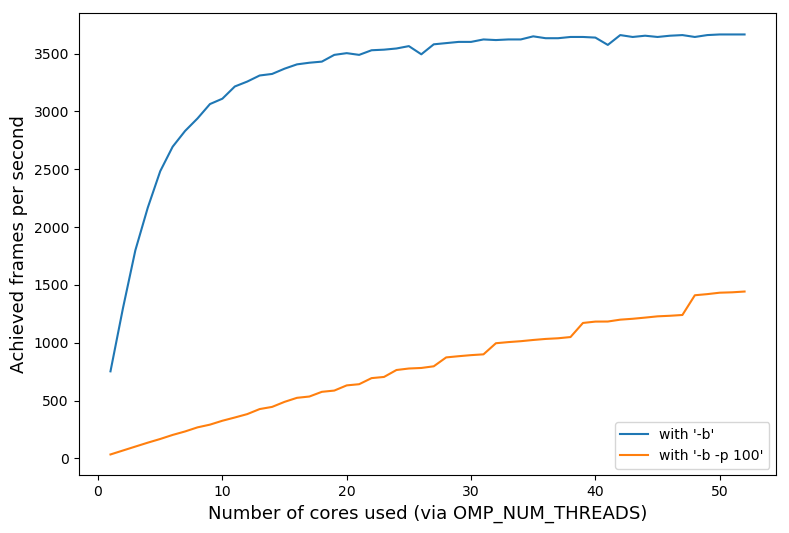
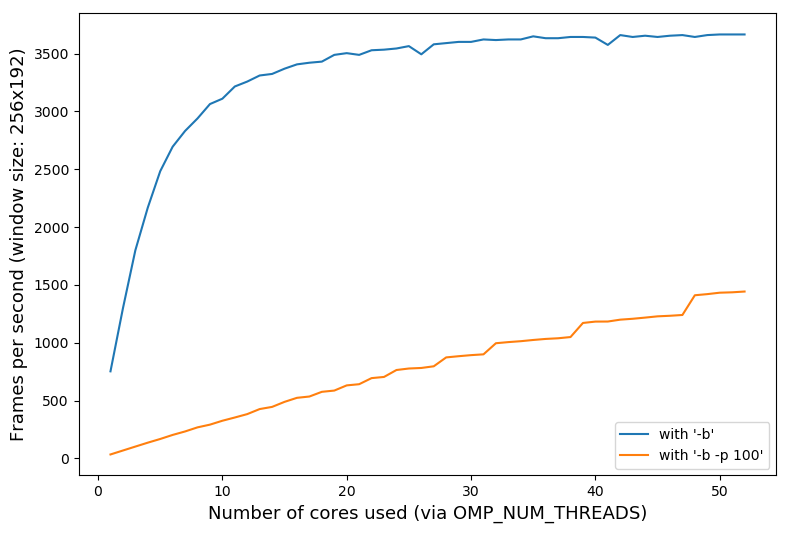
Added legend.

Changed region(s): [[0.0, 0.0901, 0.0304, 0.8405]]

diff --git a/scaling_data/scaling.py b/scaling_data/scaling.py
@@ -74,7 +74,7 @@ ax.set_xlabel(
     "Number of cores used (via OMP_NUM_THREADS)",
     fontdict={'fontsize': 13})
 ax.set_ylabel(
-    "Achieved frames per second",
+    "Frames per second (window size: 256x192)",
     fontdict={'fontsize': 13})
 
 # Save the figure
